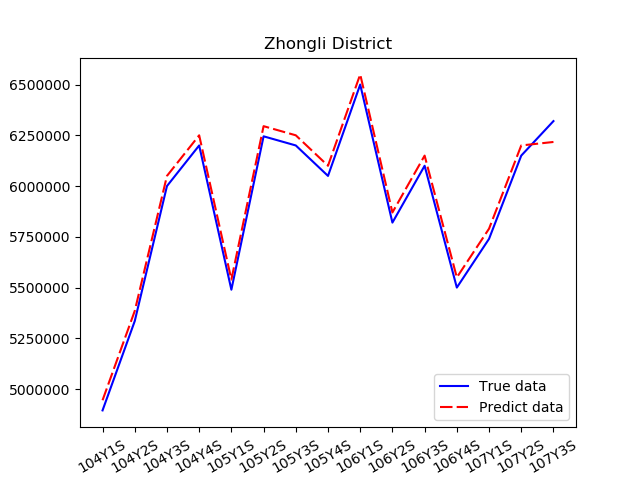
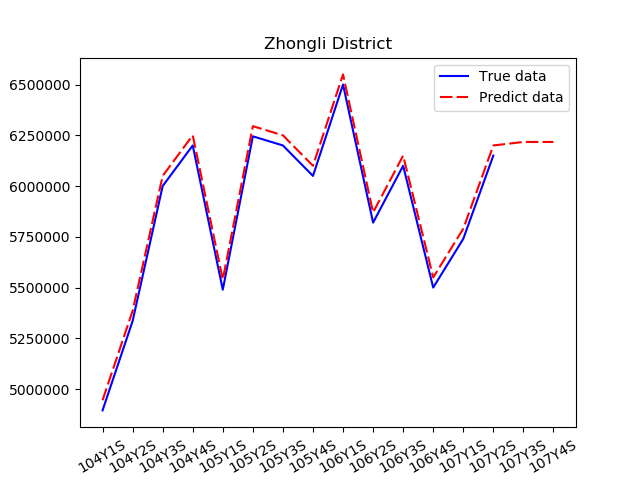
more predict less data

diff --git a/server.py b/server.py
@@ -63,20 +63,26 @@ def production(longitude,latitude):
         predicted_sales = lm.predict(np.reshape(to_be_predicted, (len(to_be_predicted), 1)))
         predict_data.append(predicted_sales.tolist()[0][0])
 
-        with open("107年3季行政區不動產實價登錄建物成交單價中位數—按屋齡分_鄉鎮市區.csv", newline='', encoding="cp950") as csvfile:
-            rows = list(csv.reader(csvfile))
-            for row in rows:
-                if target in row:    
-                    print(row)                
-                    data.append(float(row[13]))
+        xtrick.append("107Y4S")
+
+        predict = np.array(predict_data)
+        time = np.array(list(range(len(predict_data))))
+
+        lm = LinearRegression()
+        lm.fit(np.reshape(time, (len(time), 1)), np.reshape(predict, (len(predict), 1)))
+
+        to_be_predicted = np.array([len(data)])
+        predicted_sales = lm.predict(np.reshape(to_be_predicted, (len(to_be_predicted), 1)))
+        predict_data.append(predicted_sales.tolist()[0][0])
+        
 
     print(json.dumps([data,predict_data,xtrick]))
     fig = plt.figure()
     plt.title(etarget)
     plt.plot(list(range(len(data))),data,'b-',label="True data")
     plt.plot(list(range(len(predict_data))),[x+50000 for x in predict_data],'r',dashes=[6, 2],label="Predict data")
-    plt.xticks(list(range(len(data))),xtrick, rotation=30)
-    plt.legend(loc=4)
+    plt.xticks(list(range(len(predict_data))),xtrick, rotation=30)
+    plt.legend(loc=0)
     fig.savefig(longitude+" "+latitude+".png")
 
 app = Flask(__name__)
